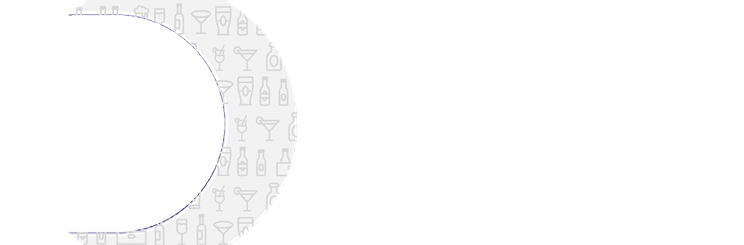
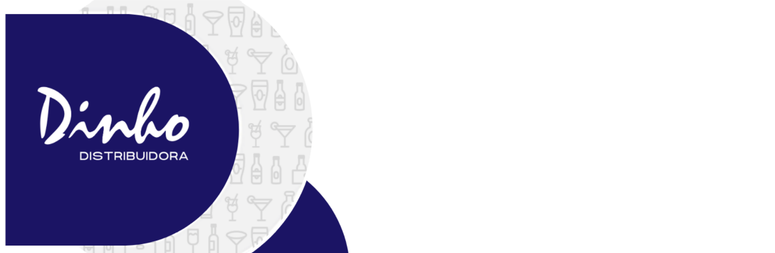
Atualiza assinatura conforme novo layout

diff --git a/app/services/signature_generator.py b/app/services/signature_generator.py
@@ -47,27 +47,25 @@ def _paste(image, asset_name, box, crop_transparent=False):
 
 
 def _draw_powerpoint_art(show_phone=False):
-    """Rebuild the static art from the editable objects in the approved PPTX."""
-    image = Image.new("RGBA", SIGNATURE_SIZE, WHITE + (255,))
+    """Render the static art and icons at the coordinates of the approved PPTX."""
+    background = _asset("image1.png").resize((532, 174), Image.Resampling.LANCZOS)
+    image = background.crop((0, 0, 532, 173))
     draw = ImageDraw.Draw(image)
 
-    # Bottom flourish and patterned crescent.
-    draw.polygon(((145, 173), (193, 105), (215, 136), (241, 173)), fill=BRAND_BLUE + (255,))
-    draw.rectangle((-2, -3, 165, 176), fill=WHITE + (255,))
-    _paste(image, "image1.png", (2, 0, 221, 176), crop_transparent=True)
-
-    # Main left plate and official white logo extracted from the PPTX.
-    # The large circle in the source has no fill; the patterned crescent must remain visible.
-    draw.rounded_rectangle((-93, 10, 164, 169), radius=22, fill=BRAND_BLUE + (255,))
-    _paste(image, "image2.png", (14, 47, 94, 38))
-
-    # Contact icons from the current approved PowerPoint.
+    # Contact icons from the approved PowerPoint.
     contact_icons = [(83, "image12.png"), (109, "image13.png")]
     if show_phone:
         contact_icons.append((137, "image15.png"))
     for y, asset in contact_icons:
         draw.rounded_rectangle((243, y, 261, y + 18), radius=2, fill=ICON_BLUE + (255,))
         _paste(image, asset, (247, y + 4, 10, 10))
+
+    # Social-media strip restored in the new approved layout.
+    _paste(image, "image10.png", (409, 150, 17, 17))
+    draw.ellipse((432, 150, 449, 167), fill=BRAND_BLUE + (255,))
+    _paste(image, "image9.png", (436, 153, 10, 10))
+    _paste(image, "image7.png", (456, 150, 17, 17))
+    _paste(image, "image5.png", (478, 150, 17, 17))
     return image
 
 
@@ -93,13 +91,14 @@ def generate_signature_image(name, role, email, output_path, phone=""):
     detail_font = _font(8)
 
     # Positions, colors and relative sizes converted from the PPTX EMU coordinates.
-    draw.text((243, 25), name, font=name_font, fill=BRAND_BLUE)
+    draw.text((246, 31), name, font=name_font, fill=BRAND_BLUE)
     if role:
-        draw.text((242, 48), role, font=role_font, fill=SECONDARY_TEXT)
-    draw.text((267, 87), email, font=email_font, fill=SECONDARY_TEXT)
-    draw.text((267, 113), "www.dinhodistribuidora.com.br", font=detail_font, fill=SECONDARY_TEXT)
+        draw.text((245, 52), role, font=role_font, fill=SECONDARY_TEXT)
+    draw.line((245, 65, 323, 65), fill=BRAND_BLUE, width=1)
+    draw.text((273, 91), email, font=email_font, fill=SECONDARY_TEXT)
+    draw.text((270, 117), "www.dinhodistribuidora.com.br", font=detail_font, fill=SECONDARY_TEXT)
     if phone:
-        draw.text((267, 140), phone, font=detail_font, fill=SECONDARY_TEXT)
+        draw.text((270, 145), phone, font=detail_font, fill=SECONDARY_TEXT)
 
     image.convert("RGB").save(output, format="PNG", optimize=True)
     return output

diff --git a/tests/test_workflow.py b/tests/test_workflow.py
@@ -44,10 +44,8 @@ def test_generate_signature_image_creates_png(tmp_path):
 
     with Image.open(result) as generated:
         assert generated.size == (532, 173)
-        # The latest approved PPT no longer has the social-media icon strip.
-        assert generated.crop((400, 145, 500, 173)).getcolors(maxcolors=1) == [
-            (100 * 28, (255, 255, 255))
-        ]
+        # The new approved PPT restores the social-media icon strip.
+        assert generated.crop((400, 145, 500, 173)).getcolors(maxcolors=1) is None
 
 
 def test_public_lookup_route(tmp_path):
